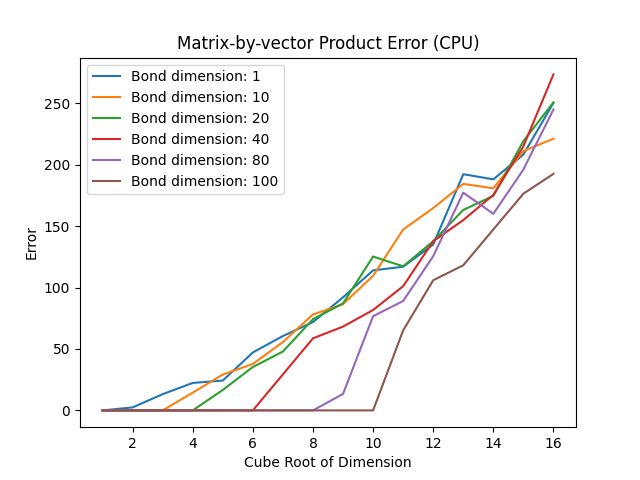
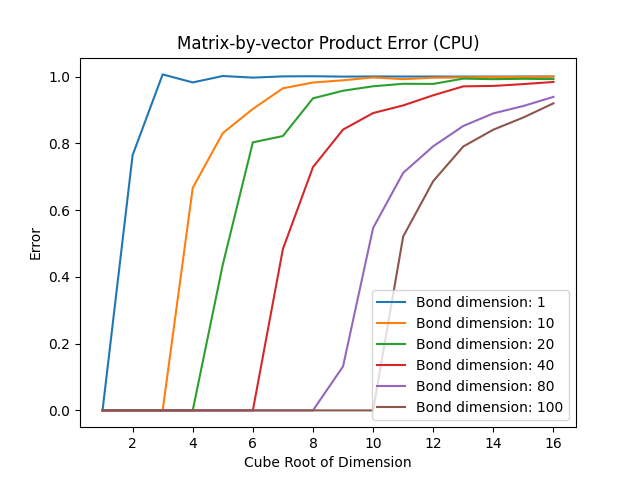
fix: fix the bug for calculating relative error

diff --git a/tensors/operations.py b/tensors/operations.py
@@ -271,12 +271,14 @@ def validate_stacked_product(y_mpo, y, rtol=0.00001, atol=1e-8):
         absolute tolerance
     Raises error if the product is not valid
     """
+    assert False, "This function is deprecated."
     for i in range(len(y_mpo)):
         y_mpo[i] = tt_to_tensor(y_mpo[i]).clone().detach() if tl.get_backend() == "pytorch" else torch.tensor(tt_to_tensor(y_mpo[i]))
         y_mpo[i] = y_mpo[i].reshape(-1)
     y_tensor = torch.vstack(y_mpo).transpose(1,0).reshape(-1)
     y = y.reshape(-1)
-    print(f"Error of stacked MPO-form matrix-by-vector product: {torch.max(torch.abs(y_tensor - y))}")
+    # print(f"Error of stacked MPO-form matrix-by-vector product: {torch.max(torch.abs(y_tensor - y))}")
+    print(f"Error of stacked MPO-form matrix-by-vector product: {torch.norm(y_tensor - y, p=2) / torch.norm(y, p=2)}")
     assert torch.allclose(y_tensor, y, rtol, atol)
 
 
@@ -299,7 +301,8 @@ def validate_product(y_mpo, y, rtol=0.00001, atol=1e-8):
         y_tensor = tt_to_tensor(y_mpo).clone().detach() if tl.get_backend() == "pytorch" else torch.tensor(tt_to_tensor(y_mpo))
         y_tensor = y_tensor.reshape(-1)
         y = y.reshape(-1)
-        print(f"Error of MPO-form matrix-by-vector product: {torch.max(torch.abs(y - y_tensor))}")
+        # print(f"Error of MPO-form matrix-by-vector product: {torch.max(torch.abs(y - y_tensor))}")
+        print(f"Error of MPO-form matrix-by-vector product: {torch.norm(y - y_tensor, p=2) / torch.norm(y, p=2)}")
         assert torch.allclose(y, y_tensor, rtol, atol)
     elif len(y_mpo[0].shape) == 4:
         y_tensor = mpo_to_tensor(y_mpo).clone().detach() if tl.get_backend() == "pytorch" else torch.tensor(mpo_to_tensor(y_mpo))
@@ -307,7 +310,8 @@ def validate_product(y_mpo, y, rtol=0.00001, atol=1e-8):
         y_tensor = y_tensor.permute(order)
         y_tensor = y_tensor.reshape(-1)
         y = y.reshape(-1)
-        print(f"Error of MPO-form matrix-by-matrix product: {torch.max(torch.abs(y - y_tensor))}")
+        # print(f"Error of MPO-form matrix-by-matrix product: {torch.max(torch.abs(y - y_tensor))}")
+        print(f"Error of MPO-form matrix-by-matrix product: {torch.norm(y - y_tensor, p=2) / torch.norm(y, p=2)}")
         assert torch.allclose(y, y_tensor, rtol, atol)
     else:
         raise ValueError("The order of the MPO factors should be 3 or 4")
@@ -334,7 +338,8 @@ def validate_decomposition(W_mpo, W, rtol=0.00001, atol=1e-8):
     W_tensor = W_tensor.permute(order)
     W_tensor = W_tensor.reshape(-1)
     W = W.reshape(-1)
-    print(f"Error of MPO Decomposition: {torch.max(torch.abs(W - W_tensor))}")
+    # print(f"Error of MPO Decomposition: {torch.max(torch.abs(W - W_tensor))}")
+    print(f"Error of MPO Decomposition: {torch.norm(W - W_tensor, p=2) / torch.norm(W, p=2)}")
     assert torch.allclose(W, W_tensor, rtol, atol)
 
 

diff --git a/tests/test_matrix_by_matrix_product_time_and_error.py b/tests/test_matrix_by_matrix_product_time_and_error.py
@@ -35,9 +35,11 @@ def get_product_time(bond_dim, ITERS=3):
     end = time.time()
     mpo_time = (end - start) / ITERS
     y_tensor = mpo_to_tensor(y_mpo).clone().detach()
+    y_tensor = y_tensor.permute(get_permutation(y_tensor, decompose=False))
     y_tensor = y_tensor.reshape(-1)
     y = y.reshape(-1)
-    err = torch.max(torch.abs(y - y_tensor))
+    # err = torch.max(torch.abs(y - y_tensor))
+    err = torch.norm(y - y_tensor, p=2) / torch.norm(y, p=2)
     start = time.time()
     for _ in range(ITERS):
         torch.matmul(W, x)

diff --git a/tests/test_rounded_matrix_by_matrix_product.py b/tests/test_rounded_matrix_by_matrix_product.py
@@ -37,9 +37,11 @@ def get_product_time(bond_dim, ITERS=3):
     end = time.time()
     mpo_time = (end - start) / ITERS
     y_tensor = mpo_to_tensor(y_mpo).clone().detach()
+    y_tensor = y_tensor.permute(get_permutation(y_tensor, decompose=False))
     y_tensor = y_tensor.reshape(-1)
     y = y.reshape(-1)
-    err = torch.max(torch.abs(y - y_tensor))
+    # err = torch.max(torch.abs(y - y_tensor))
+    err = torch.norm(y - y_tensor, p=2) / torch.norm(y, p=2)
     start = time.time()
     for _ in range(ITERS):
         torch.matmul(W, x)

diff --git a/tests/test_matrix_by_vector_product_time_and_error.py b/tests/test_matrix_by_vector_product_time_and_error.py
@@ -35,7 +35,8 @@ def get_product_time(rank, bond_dim, ITERS=3):
     y_tensor = tt_to_tensor(y_mpo).clone().detach()
     y_tensor = y_tensor.reshape(-1)
     y = y.reshape(-1)
-    err = torch.max(torch.abs(y - y_tensor))
+    # err = torch.max(torch.abs(y - y_tensor))
+    err = torch.norm(y - y_tensor, p=2) / torch.norm(y, p=2)
     start = time.time()
     for _ in range(ITERS):
         y = torch.matmul(W, x)

diff --git a/tests/test_TIE_scheme.py b/tests/test_TIE_scheme.py
@@ -165,4 +165,4 @@ W_mpo = mpo_decompostion(W_reshaped, rank=[1, bond_dim, bond_dim, 1])
 # validate_product(y_mpo, y, 1e-3, 1e-3)
 
 y_scheme = matrix_by_vector_scheme(W_mpo, x_reshaped, transform_factor=True).reshape(-1)
-print(f"error: {torch.max(torch.abs(y_scheme - y))}")
+print(f"error: {torch.norm(y - y_scheme, p=2) / torch.norm(y, p=2)}")
